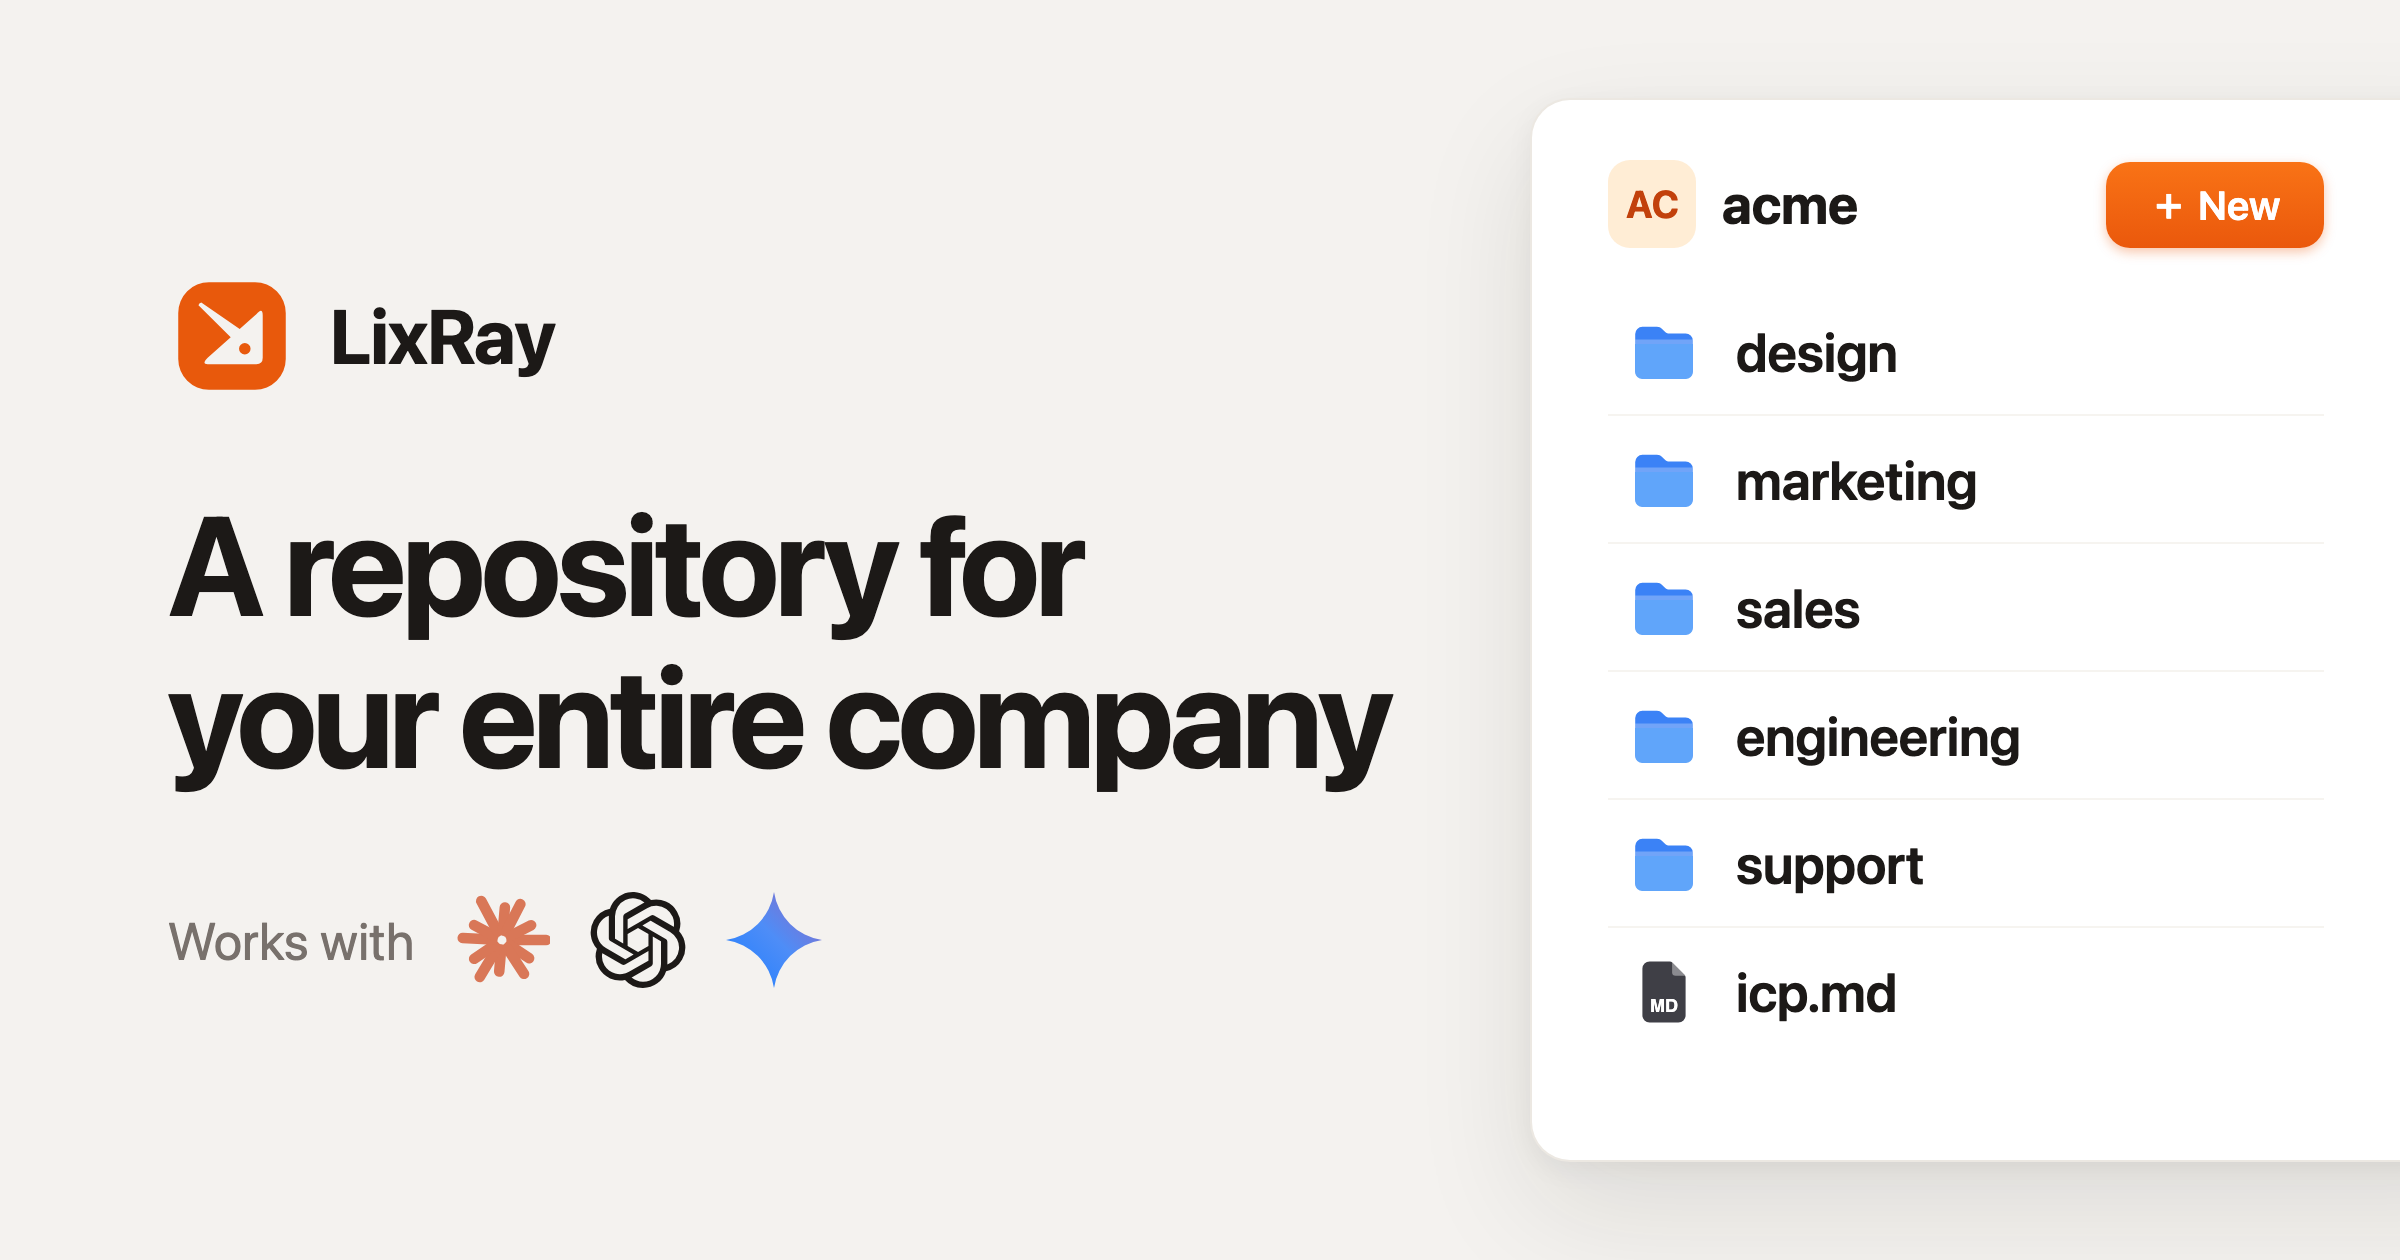
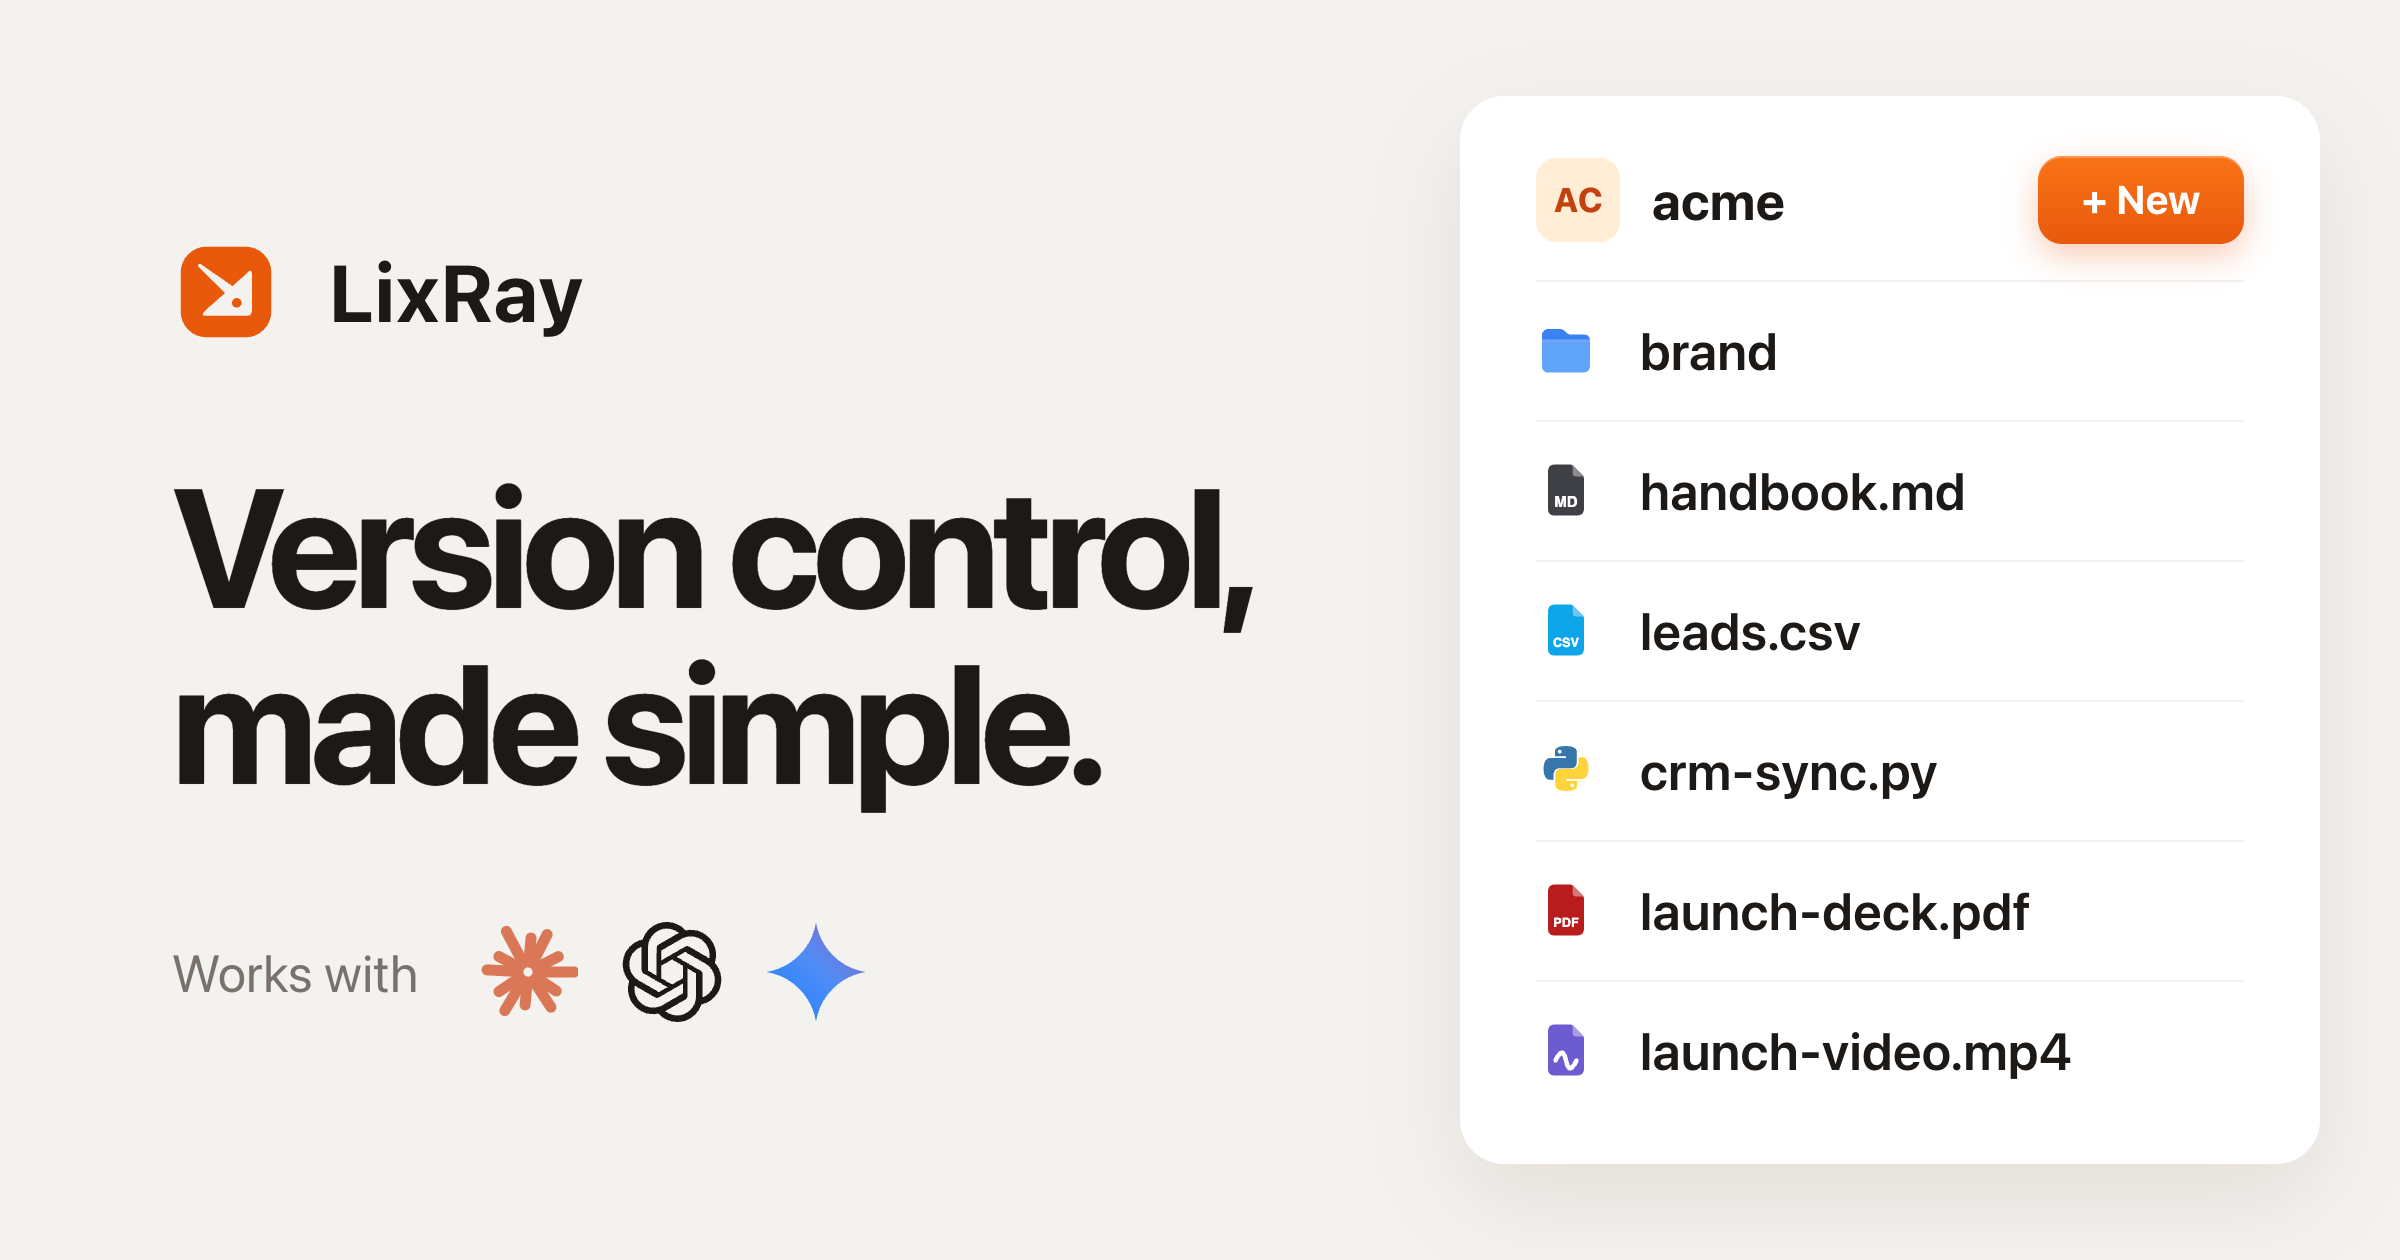
Landing page: "Version control, made simple" (design 43)
Reposition the landing page around version control for any file type:

- Static headline replaces the rotating audience reel
- Single primary CTA; drop "Book a demo"
- Repository preview becomes a file table with name and last-change
  columns, showing people and agents as authors
- Drop the "Why?" section; comparison now covers GitHub, Google Drive,
  and Notion
- New OG image, page title, and description to match
- Add the Python file icon used by the preview

diff --git a/web-app/src/components/landing-page.tsx b/web-app/src/components/landing-page.tsx
@@ -1,27 +1,12 @@
 import { Link } from "@tanstack/react-router";
-import { type ReactNode } from "react";
 import { SiteHeader, useRepositoryCta } from "~/components/site-header";
 
 const primaryButton =
 	"inline-flex items-center justify-center rounded-[10px] bg-[image:var(--atelier-accent-gradient)] px-[22px] py-3 text-base font-bold whitespace-nowrap text-accent-on no-underline shadow-accent transition hover:brightness-105";
-const secondaryButton =
-	"inline-flex items-center justify-center rounded-[10px] border border-fg/15 bg-panel px-5 py-[11px] text-base font-semibold whitespace-nowrap text-fg no-underline transition hover:border-fg/30";
-const bookDemoHref = "mailto:hello@opral.com?subject=LixRay%20demo";
 
 export function LandingPage() {
 	const { user, repositoryTo } = useRepositoryCta();
 	const heroCtaLabel = user ? "Open LixRay" : "Create your repo for free";
-
-	const ctaRow = (
-		<div className="flex flex-wrap items-center gap-3">
-			<a className={primaryButton} href={repositoryTo}>
-				{heroCtaLabel}
-			</a>
-			<a className={secondaryButton} href={bookDemoHref}>
-				Book a demo
-			</a>
-		</div>
-	);
 
 	return (
 		<div className="min-h-screen bg-bg font-sans text-fg antialiased">
@@ -32,64 +17,21 @@ export function LandingPage() {
 					className="flex flex-col items-start gap-[22px]"
 					aria-labelledby="landing-title"
 				>
-					{/* Design 26a: the audience phrase rotates on a CSS reel — no
-					    interaction, no JS. The reel spans company and personal
-					    audiences, replacing the old pitch toggle. All phrases stay
-					    in the DOM for crawlers; the aria-label keeps the accessible
-					    name stable. */}
 					<h1
-						className="m-0 text-[clamp(2.25rem,5.5vw,2.875rem)] leading-[1.12] font-bold tracking-[-.03em]"
+						className="m-0 text-[clamp(2.25rem,5.5vw,2.875rem)] leading-[1.12] font-bold tracking-[-.03em] text-balance"
 						id="landing-title"
-						aria-label="A repository for your entire company"
 					>
-						A repository for
-						<br />
-						your{" "}
-						<span className="landing-headline-slot">
-							<span className="landing-headline-reel">
-								<span>entire company</span>
-								<span>sales team</span>
-								<span>marketing team</span>
-								<span>personal life</span>
-								{/* Duplicate of the first phrase closes the loop. */}
-								<span aria-hidden="true">entire company</span>
-							</span>
-						</span>
+						Version control, made simple.
 					</h1>
-					<style>{`
-						.landing-headline-slot {
-							display: inline-block;
-							overflow: hidden;
-							height: 1.12em;
-							vertical-align: bottom;
-							color: var(--atelier-link);
-						}
-						.landing-headline-reel {
-							display: flex;
-							flex-direction: column;
-							animation: landing-headline-rotate 10s infinite
-								cubic-bezier(0.6, 0, 0.2, 1);
-						}
-						.landing-headline-reel > span {
-							white-space: nowrap;
-							line-height: 1.12;
-						}
-						@keyframes landing-headline-rotate {
-							0%, 18% { transform: translateY(0); }
-							23%, 41% { transform: translateY(-20%); }
-							46%, 64% { transform: translateY(-40%); }
-							69%, 87% { transform: translateY(-60%); }
-							92%, 100% { transform: translateY(-80%); }
-						}
-						@media (prefers-reduced-motion: reduce) {
-							.landing-headline-reel { animation: none; }
-						}
-					`}</style>
 					<p className="m-0 text-lg leading-[1.6] text-fg-muted text-pretty">
-						One repo you and your agents share. Any file type, every change
-						tracked.
+						A repository for any file type. Every change is tracked and
+						reversible. Shared with your team and your agents.
 					</p>
-					<div className="mt-0.5">{ctaRow}</div>
+					<div className="mt-0.5 flex flex-wrap items-center gap-3">
+						<a className={primaryButton} href={repositoryTo}>
+							{heroCtaLabel}
+						</a>
+					</div>
 					<div className="flex flex-wrap items-center gap-[9px] text-sm text-fg-subtle">
 						<span>Works with</span>
 						<span
@@ -114,49 +56,18 @@ export function LandingPage() {
 						</span>
 						<span>and any MCP agent</span>
 					</div>
-					<div className="w-full self-stretch overflow-hidden rounded-xl border border-fg/12 bg-panel">
+					<div className="mt-5 w-full self-stretch overflow-hidden rounded-xl border border-fg/12 bg-panel text-[13.5px]">
 						<div className="flex items-center gap-2 border-b border-fg/8 bg-bg-hover px-5 py-2.5 font-mono text-[12.5px] text-fg-subtle">
 							lixray.com/<b className="text-fg">@acme/repository</b>
 						</div>
-						<div className="flex flex-col gap-2.5 px-6 py-5 font-mono text-[13.5px]">
-							<RepoRow folder="sales/">
-								playbook.md · icp.md · leads.csv
-							</RepoRow>
-							<RepoRow folder="brand/">
-								logo.png · launch-video.mp4 · deck.pdf
-							</RepoRow>
-							<RepoRow folder="skills/">
-								call-prep/SKILL.md · research/SKILL.md
-							</RepoRow>
-							<RepoRow folder="automations/">
-								crm-sync.py · weekly-report.js
-							</RepoRow>
+						<div className="grid grid-cols-[minmax(0,1fr)_auto] gap-x-5 px-5 pt-2 pb-3">
+							<span className={repoColumnHeading}>Name</span>
+							<span className={repoColumnHeading}>Last change</span>
+							{repoFiles.map((file) => (
+								<RepoFileRow key={file.name} {...file} />
+							))}
 						</div>
 					</div>
-				</section>
-
-				<section
-					className="flex flex-col gap-[18px]"
-					aria-labelledby="why-title"
-				>
-					<h2
-						className="m-0 text-2xl font-bold tracking-[-.02em]"
-						id="why-title"
-					>
-						Why?
-					</h2>
-					<p className="m-0 text-base leading-[1.65] text-fg-muted">
-						<b>Sharing skills.</b> Write a skill once. Every agent on the team
-						runs the same version.
-					</p>
-					<p className="m-0 text-base leading-[1.65] text-fg-muted">
-						<b>Storing automations.</b> The scripts your agents run on a
-						schedule, versioned and reviewable.
-					</p>
-					<p className="m-0 text-base leading-[1.65] text-fg-muted">
-						<b>Context layer for agents.</b> Agents read the ICP and the
-						playbook from one place. Always the current version.
-					</p>
 				</section>
 
 				<section
@@ -174,20 +85,26 @@ export function LandingPage() {
 							className="text-fg-muted underline decoration-fg-muted/30 underline-offset-2 hover:text-link hover:decoration-link/40"
 							to="/lp/lixray-vs-github"
 						>
-							<b>GitHub</b> is too technical (branch, commit, pull request) and
-							lacks permissions.
+							<b>GitHub</b> is too complicated for non-developers. Branch,
+							commit, pull request is designed for software engineers, and
+							non-code files are secondary.
 						</Link>
 					</p>
 					<p className="m-0 text-base leading-[1.65] text-fg-muted">
-						<b>Google Drive</b> has no version control and is not designed for
-						programmatic usage.
+						<b>Google Drive</b> lacks version control. Per-file history, no
+						state across files, so anything with dependencies between files,
+						like code, doesn't work.
+					</p>
+					<p className="m-0 text-base leading-[1.65] text-fg-muted">
+						<b>Notion</b> is not file-based. It can't store code and lacks the
+						interoperability of files.
 					</p>
 				</section>
 			</main>
 
 			<footer className="flex flex-wrap items-center justify-between gap-4 border-t border-fg/7 px-5 py-6 text-sm text-fg-subtle sm:px-14">
 				<span className="inline-flex items-center gap-2">
-					<img className="size-4" src="/lixray-mark.svg" alt="" />
+					<img className="size-4" src="/landing/lixray-glyph.svg" alt="" />
 					<span className="font-semibold text-fg-muted">LixRay</span>
 				</span>
 				<a
@@ -222,17 +139,72 @@ export function LandingPage() {
 	);
 }
 
-function RepoRow({
-	folder,
-	children,
-}: {
-	folder: string;
-	children: ReactNode;
-}) {
+const repoColumnHeading =
+	"pt-2 pb-1.5 text-[11.5px] font-semibold tracking-[.03em] text-fg-faint uppercase";
+
+type RepoFile = {
+	name: string;
+	icon: string;
+	author: string;
+	/** Agent brand mark shown before the author; people have none. */
+	authorIcon?: string;
+	when: string;
+};
+
+const repoFiles: RepoFile[] = [
+	{ name: "brand", icon: "icon-folder", author: "Anna", when: "Mar 3" },
+	{ name: "handbook.md", icon: "icon-sq-md", author: "Anna", when: "1h ago" },
+	{
+		name: "leads.csv",
+		icon: "icon-sq-csv",
+		author: "Claude",
+		authorIcon: "claude-spark",
+		when: "4 min ago",
+	},
+	{
+		name: "crm-sync.py",
+		icon: "icon-sq-py",
+		author: "Claude",
+		authorIcon: "claude-spark",
+		when: "2h ago",
+	},
+	{
+		name: "launch-deck.pdf",
+		icon: "icon-sq-pdf",
+		author: "Tom",
+		when: "yesterday",
+	},
+	{
+		name: "launch-video.mp4",
+		icon: "icon-sq-mp4",
+		author: "ChatGPT",
+		authorIcon: "brand-openai",
+		when: "Mon",
+	},
+	{ name: "logo.png", icon: "icon-sq-png", author: "Anna", when: "Mar 3" },
+];
+
+function RepoFileRow({ name, icon, author, authorIcon, when }: RepoFile) {
 	return (
-		<span className="flex flex-col gap-0.5 sm:flex-row sm:gap-3.5">
-			<span className="w-[130px] shrink-0 font-bold text-accent">{folder}</span>
-			<span className="text-fg-subtle">{children}</span>
-		</span>
+		<>
+			<span className="inline-flex min-w-0 items-center gap-2.5 border-t border-fg/6 py-2 font-medium">
+				<img
+					className="size-[18px] shrink-0"
+					src={`/landing/${icon}.svg`}
+					alt=""
+				/>
+				<span className="truncate">{name}</span>
+			</span>
+			<span className="inline-flex items-center gap-[7px] border-t border-fg/6 py-2 whitespace-nowrap text-fg-muted">
+				{authorIcon ? (
+					<img
+						className="size-[13px] object-contain"
+						src={`/landing/${authorIcon}.svg`}
+						alt=""
+					/>
+				) : null}
+				{author} · {when}
+			</span>
+		</>
 	);
 }

diff --git a/web-app/src/routes/__root.tsx b/web-app/src/routes/__root.tsx
@@ -15,9 +15,9 @@ import { RepositoryMcpGuidance } from "~/components/repository-mcp-guidance";
 import pwaIcons from "../pwa-icons.json";
 import appCss from "../styles.css?url";
 
-const title = "LixRay — A repository for your entire company";
+const title = "LixRay — Version control, made simple";
 const description =
-	"One repo your team and your agents share. Any file type, every change tracked.";
+	"A repository for any file type. Every change is tracked and reversible. Shared with your team and your agents.";
 // Absolute URL: link-preview crawlers do not resolve relative image paths.
 const ogImage = "https://lixray.com/og.png";
 
